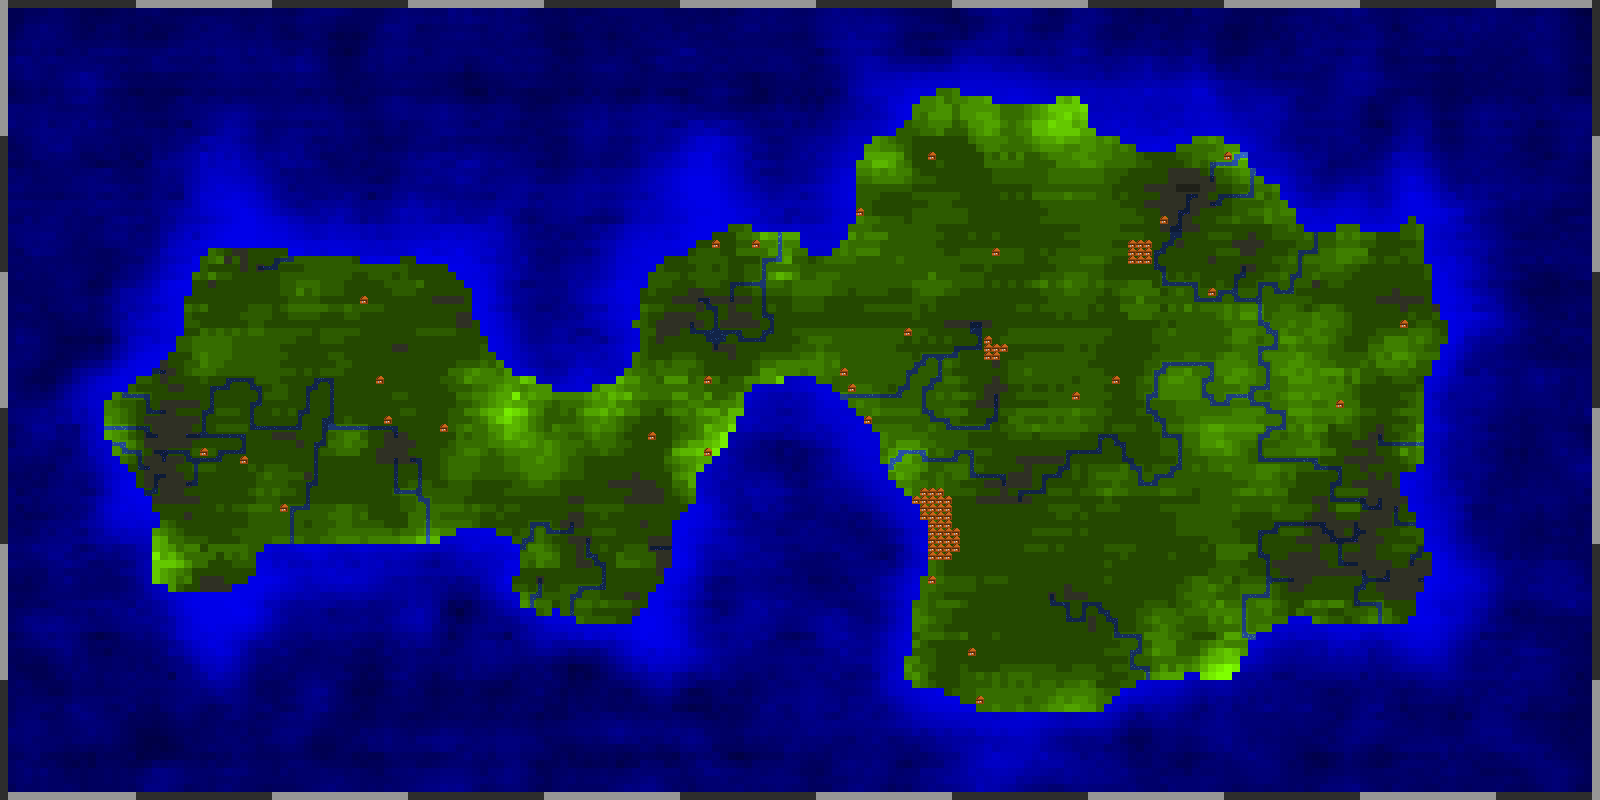
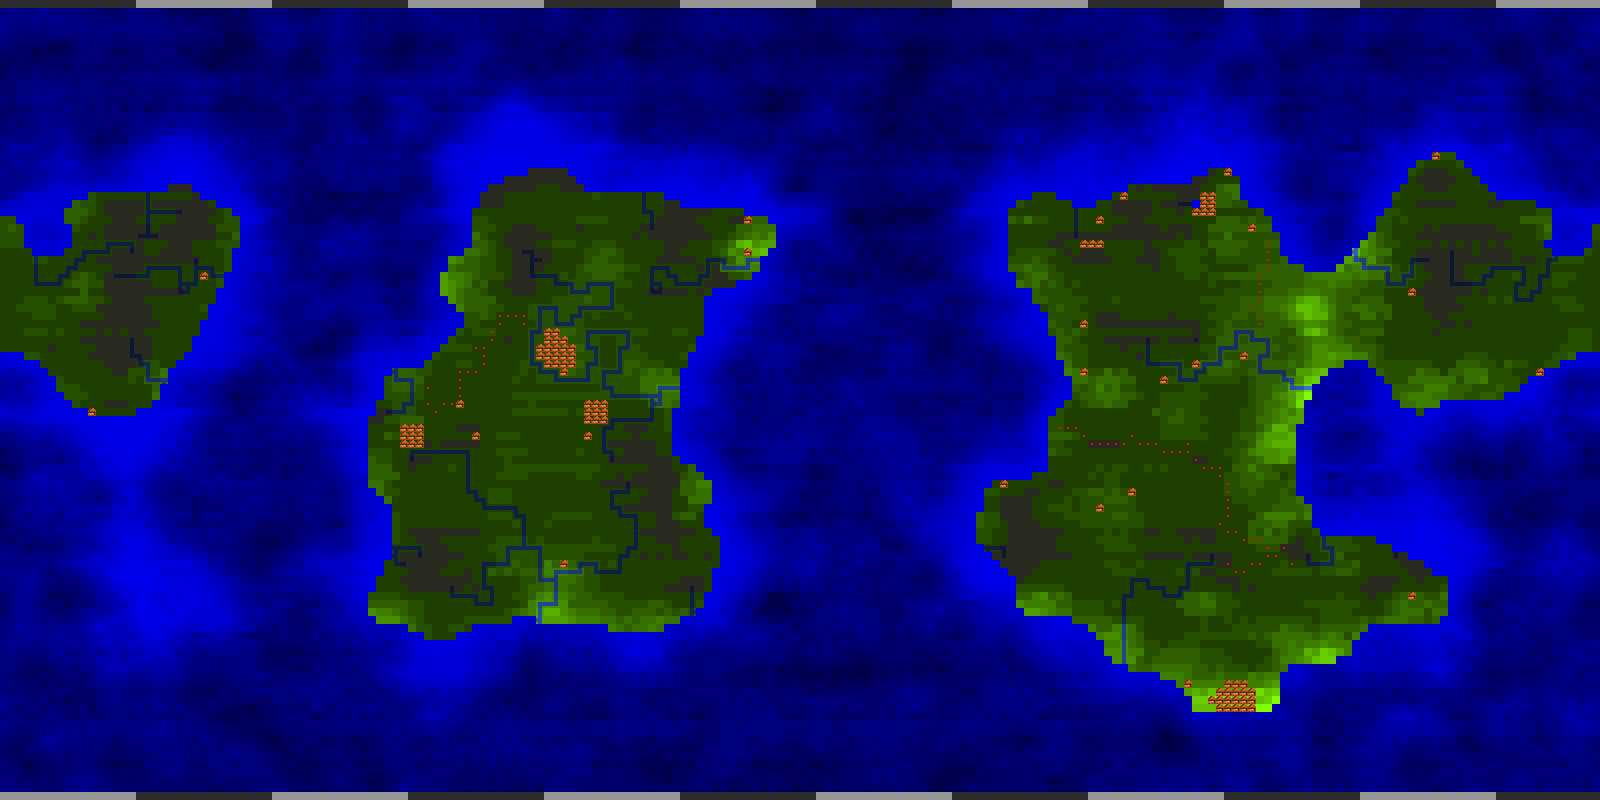
thin rivers again; dotted country borders (should they be deleted?)

diff --git a/decoration.go b/decoration.go
@@ -18,9 +18,11 @@ func (grid *Grid) DecorateFeatures() {
 						connections[i] = true
 					}
 				}
-				st.DecorateRiver(connections)
+				st.DrawRiver(connections)
 			case FEATURE_CITY:
 				st.DrawHouse()
+			case FEATURE_COUNTRY_BORDER:
+				st.DrawCountryBorder()
 			}
 		}
 	}
@@ -41,35 +43,31 @@ func (st *SquareTerrain) Draw(shape string, colors map[byte]color.Color) error {
 	return nil
 }
 
-func (st *SquareTerrain) DecorateRiver(connections [len(DIR_NEXT)]bool) {
-	var forbidden [SQUARE_HEIGHT][SQUARE_WIDTH]bool
+func (st *SquareTerrain) DrawRiver(connections [len(DIR_NEXT)]bool) {
+	var riverY, riverX []int
 	for i, dir := range DIR_NEXT {
-		if !connections[i] {
+		if connections[i] {
 			if dir[0] == 0 {
-				for sy := 0; sy < SQUARE_HEIGHT; sy++ {
-					forbidden[sy][(SQUARE_WIDTH-dir[1])%(SQUARE_WIDTH+1)] = true
-					forbidden[sy][(SQUARE_WIDTH-2*dir[1])%(SQUARE_WIDTH+1)] = true
+				for sy := 2; sy < SQUARE_WIDTH-2; sy++ {
+					riverY = append(riverY, sy, sy)
+					riverX = append(riverX, (SQUARE_WIDTH-dir[1])%(SQUARE_WIDTH+1), (SQUARE_WIDTH-2*dir[1])%(SQUARE_WIDTH+1))
 				}
 			} else if dir[1] == 0 {
-				for sx := 0; sx < SQUARE_WIDTH; sx++ {
-					forbidden[(SQUARE_HEIGHT-dir[0])%(SQUARE_HEIGHT+1)][sx] = true
-					forbidden[(SQUARE_HEIGHT-2*dir[0])%(SQUARE_HEIGHT+1)][sx] = true
+				for sx := 2; sx < SQUARE_HEIGHT-2; sx++ {
+					riverY = append(riverY, (SQUARE_HEIGHT-dir[0])%(SQUARE_HEIGHT+1), (SQUARE_HEIGHT-2*dir[0])%(SQUARE_HEIGHT+1))
+					riverX = append(riverX, sx, sx)
 				}
 			}
 		}
 	}
-	for sy := range st.Colors {
-		for sx := range st.Colors[sy] {
-			if forbidden[sy][sx] {
-				continue
-			}
+	for sy := 2; sy < len(st.Colors)-2; sy++ {
+		for sx := 2; sx < len(st.Colors[sy])-2; sx++ {
 			if rand.Intn(SQUARE_HEIGHT*SQUARE_WIDTH/3) < 1 {
-				r, g, b, a := st.Colors[sy][sx].RGBA()
 				st.Colors[sy][sx] = color.RGBA{
-					R: uint8(r),
-					G: uint8(g),
-					B: uint8((int(b) + 255) / 2),
-					A: uint8(a),
+					R: uint8(st.Val / 4),
+					G: uint8(st.Val / 2),
+					B: uint8((st.Val + 255) / 2),
+					A: 255,
 				}
 			} else {
 				st.Colors[sy][sx] = color.RGBA{
@@ -79,6 +77,14 @@ func (st *SquareTerrain) DecorateRiver(connections [len(DIR_NEXT)]bool) {
 					A: 255,
 				}
 			}
+		}
+	}
+	for i := range riverY {
+		st.Colors[riverY[i]][riverX[i]] = color.RGBA{
+			R: uint8(st.Val / 4),
+			G: uint8(st.Val / 2),
+			B: uint8(st.Val),
+			A: 255,
 		}
 	}
 }
@@ -98,5 +104,13 @@ func (st *SquareTerrain) DrawHouse() {
 	err := st.Draw(shape, colors)
 	if err != nil {
 		panic(err)
+	}
+}
+
+func (st *SquareTerrain) DrawCountryBorder() {
+	for sy := 0; sy < 2; sy++ {
+		for sx := 0; sx < 2; sx++ {
+			st.Colors[SQUARE_HEIGHT/2-1+sy][SQUARE_WIDTH/2-1+sx] = color.RGBA{255, 0, 0, 255}
+		}
 	}
 }

diff --git a/main.go b/main.go
@@ -7,7 +7,7 @@ const (
 	GRID_WIDTH  int  = 200
 	GRID_HEIGHT int  = 100
 	CONNECT_Y   bool = false
-	CONNECT_X   bool = false
+	CONNECT_X   bool = true
 )
 
 func main() {
